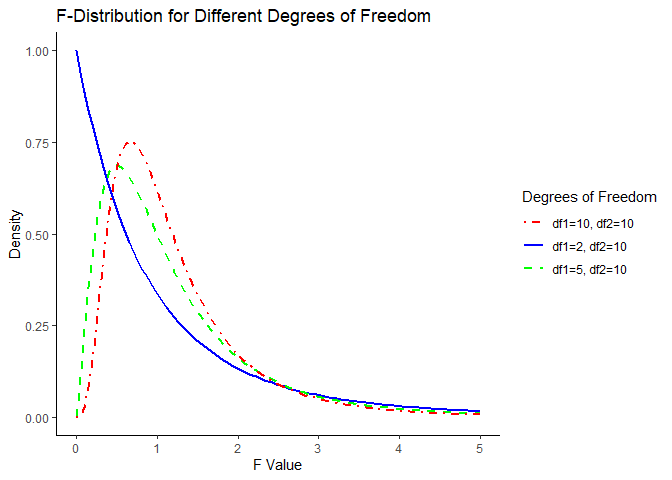
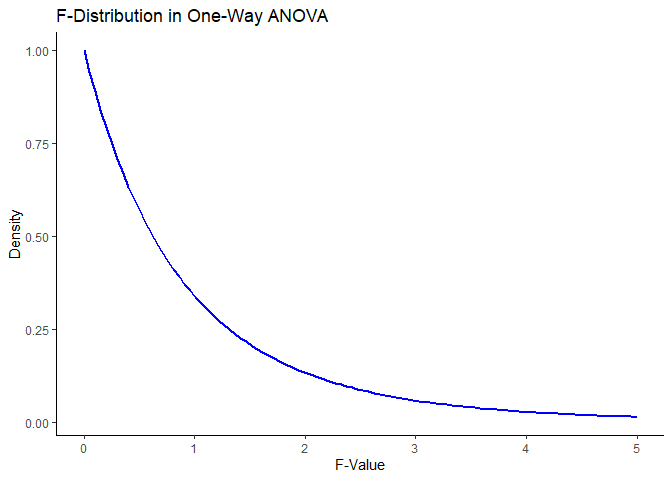
One way ANOVA updated

diff --git a/chapters/ANOVA/One-Way-ANOVA.md b/chapters/ANOVA/One-Way-ANOVA.md
@@ -409,10 +409,33 @@ Since the computed F-statistic **(≈ 9.57)** is much greater than the
 critical value (3.89), we **reject the null hypothesis**. This indicates
 that at least one group mean is significantly different from the others.
 
+#### Performing One-Way ANOVA in R
+
+    ##             Df Sum Sq Mean Sq F value  Pr(>F)   
+    ## diet         2  32.53   16.27   9.569 0.00328 **
+    ## Residuals   12  20.40    1.70                   
+    ## ---
+    ## Signif. codes:  0 '***' 0.001 '**' 0.01 '*' 0.05 '.' 0.1 ' ' 1
+
 ## Step 7: Tukey’s HSD Post-Hoc Test Results
 
 The test compares all possible pairs of diet groups to identify which
 ones have significant differences in weight loss.
+
+#### Tukey’s HSD Test in R
+
+    ##   Tukey multiple comparisons of means
+    ##     95% family-wise confidence level
+    ## 
+    ## Fit: aov(formula = weight_loss ~ diet, data = data)
+    ## 
+    ## $diet
+    ##     diff        lwr      upr     p adj
+    ## B-A  1.6 -0.5999767 3.799977 0.1699323
+    ## C-A  3.6  1.4000233 5.799977 0.0024446
+    ## C-B  2.0 -0.1999767 4.199977 0.0762244
+
+![](One-Way-ANOVA_files/figure-markdown_strict/unnamed-chunk-2-1.png)
 
 #### Interpretation
 
@@ -485,33 +508,6 @@ ones have significant differences in weight loss.
 This means Diet C leads to significantly higher weight loss compared to
 Diet A, but there is no clear evidence that Diet B and C differ
 significantly.
-
-#### F distribution
-
-![](One-Way-ANOVA_files/figure-markdown_strict/unnamed-chunk-1-1.png)
-
-#### Performing One-Way ANOVA in R
-
-    ##             Df Sum Sq Mean Sq F value  Pr(>F)   
-    ## diet         2  32.53   16.27   9.569 0.00328 **
-    ## Residuals   12  20.40    1.70                   
-    ## ---
-    ## Signif. codes:  0 '***' 0.001 '**' 0.01 '*' 0.05 '.' 0.1 ' ' 1
-
-#### Tukey’s HSD Test in R
-
-    ##   Tukey multiple comparisons of means
-    ##     95% family-wise confidence level
-    ## 
-    ## Fit: aov(formula = weight_loss ~ diet, data = data)
-    ## 
-    ## $diet
-    ##     diff        lwr      upr     p adj
-    ## B-A  1.6 -0.5999767 3.799977 0.1699323
-    ## C-A  3.6  1.4000233 5.799977 0.0024446
-    ## C-B  2.0 -0.1999767 4.199977 0.0762244
-
-![](One-Way-ANOVA_files/figure-markdown_strict/unnamed-chunk-3-1.png)
 
 #### Conclusion
 

diff --git a/chapters/ANOVA.md b/chapters/ANOVA.md
@@ -36,6 +36,10 @@ The **F-distribution** is a probability distribution used mainly in
 between multiple groups** and determine if the differences between them
 are statistically significant.
 
+#### F distribution
+
+![](ANOVA_files/figure-markdown_strict/unnamed-chunk-1-1.png)
+
 -   Is **positively skewed** (as F-values are always positive).
 -   Depends on **two degrees of freedom**:
     -   **df₁** (numerator): Number of groups minus 1.
@@ -44,7 +48,7 @@ are statistically significant.
 
 #### F-Distribution for Different Degrees of Freedom
 
-![](ANOVA_files/figure-markdown_strict/unnamed-chunk-1-1.png)
+![](ANOVA_files/figure-markdown_strict/unnamed-chunk-2-1.png)
 
 #### Graph Interpretation
 
@@ -80,7 +84,7 @@ $$
 
 #### Visualize “Between-Group Variance vs. Within-Group Variance”
 
-![](ANOVA_files/figure-markdown_strict/unnamed-chunk-2-1.png)
+![](ANOVA_files/figure-markdown_strict/unnamed-chunk-3-1.png)
 
 #### Graph Interpretation
 
